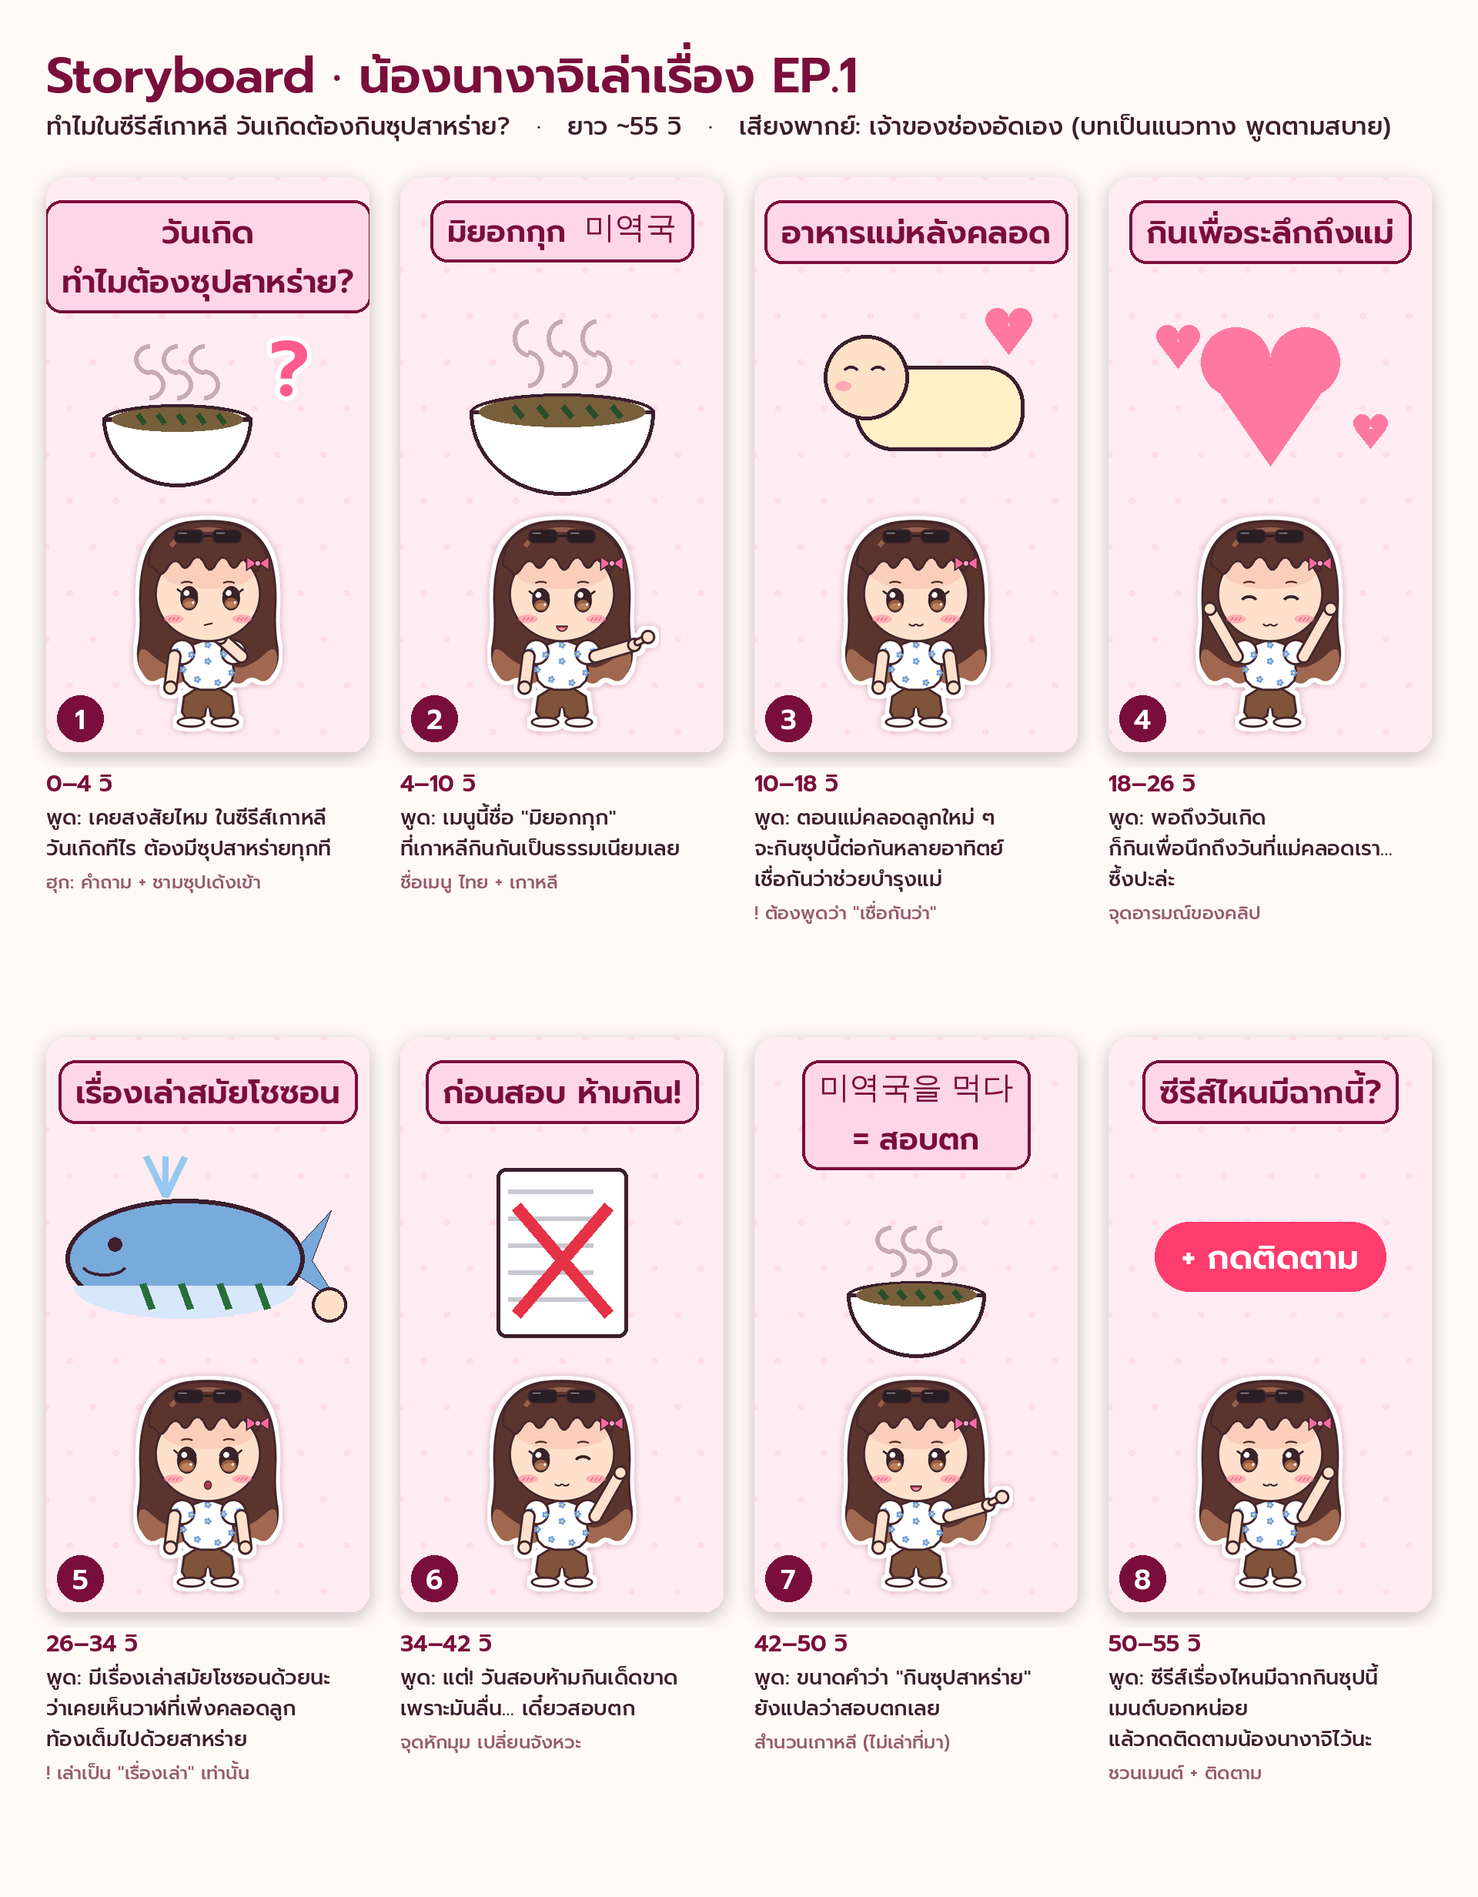
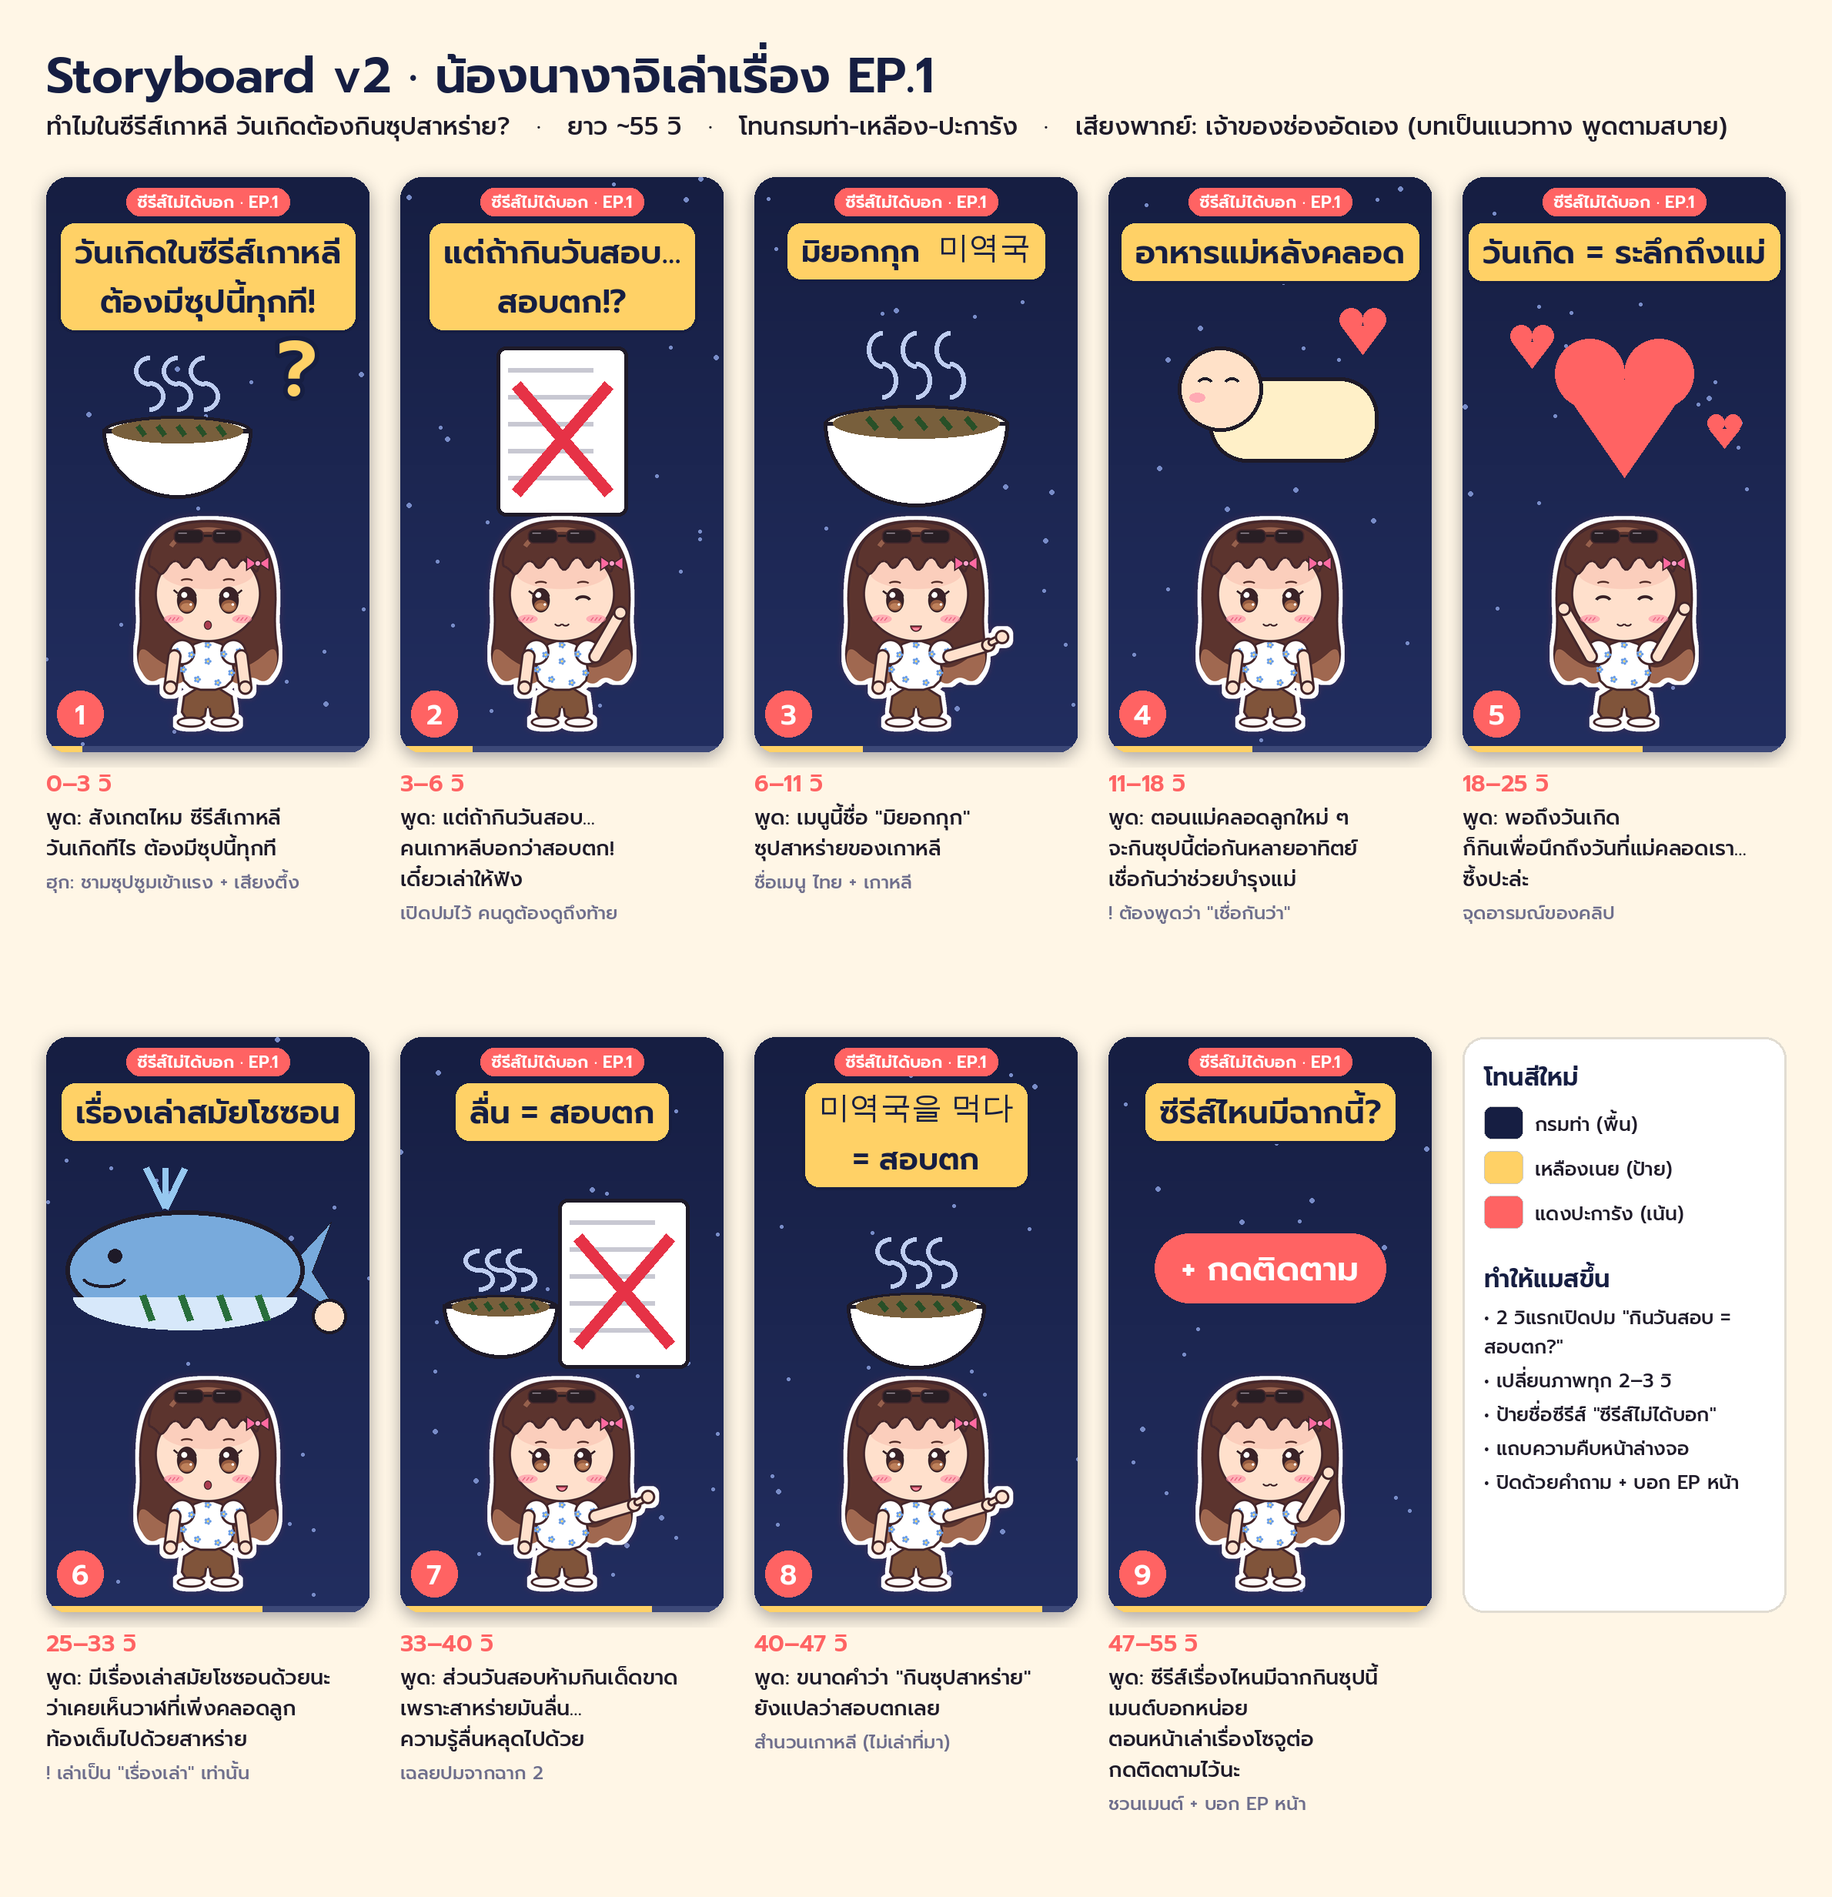
Storyboard v2: navy/yellow/coral palette, open-loop hook, series tag
Claude-Session: https://claude.ai/code/session_01RZMEmkS7RESx1oE558yDYc

diff --git a/office/weeks/2026-W47/make_storyboard.py b/office/weeks/2026-W47/make_storyboard.py
@@ -11,12 +11,14 @@ def ko(s): return ImageFont.truetype(KO, s)
 
 PW, PH = 420, 747          # panel 9:16
 GAP, M = 40, 60
-COLS, ROWS = 4, 2
+COLS, ROWS = 5, 2
 CAP = 330
 W = M*2 + COLS*PW + (COLS-1)*GAP
 H = 230 + ROWS*(PH+CAP) + (ROWS-1)*GAP + 40
-INK = (60, 30, 45)
-PINK = (255, 214, 231); DPINK = (122, 14, 59)
+INK = (30, 26, 40)
+NAVY = (22, 30, 66); NAVY2 = (34, 46, 96)
+PINK = (255, 209, 102); DPINK = (22, 30, 66)   # pill = butter yellow + navy text
+CORAL = (255, 99, 99); CREAM = (255, 246, 230); STEAM = (190, 205, 240)
 
 def bowl(d, cx, cy, s=1.0):
     w = int(150*s)
@@ -28,15 +30,15 @@ def bowl(d, cx, cy, s=1.0):
         d.line([(x, cy-10*s), (x+15*s, cy+8*s)], fill=(40,80,40), width=8)
     for i in (-1, 0, 1):  # steam
         x = cx + i*55*s
-        d.arc([x-20, cy-150*s, x+20, cy-90*s], 90, 270, fill=(200,170,180), width=6)
-        d.arc([x-20, cy-100*s, x+20, cy-40*s], 270, 90, fill=(200,170,180), width=6)
+        d.arc([x-20, cy-150*s, x+20, cy-90*s], 90, 270, fill=STEAM, width=6)
+        d.arc([x-20, cy-100*s, x+20, cy-40*s], 270, 90, fill=STEAM, width=6)
 
-def heart(d, cx, cy, r, col=(255,120,160)):
+def heart(d, cx, cy, r, col=CORAL):
     d.ellipse([cx-r, cy-r, cx, cy], fill=col); d.ellipse([cx, cy-r, cx+r, cy], fill=col)
     d.polygon([(cx-r+2, cy-r/2+8), (cx+r-2, cy-r/2+8), (cx, cy+r)], fill=col)
 
 def qmark(d, x, y, s=120):
-    d.text((x, y), "?", font=font("Prompt-SemiBold.ttf", s), fill=(255,90,140), stroke_width=6, stroke_fill="white")
+    d.text((x, y), "?", font=font("Prompt-SemiBold.ttf", s), fill=PINK, stroke_width=6, stroke_fill=NAVY)
 
 def baby(d, cx, cy):
     d.rounded_rectangle([cx-110, cy-40, cx+110, cy+70], 50, fill=(255,240,200), outline=INK, width=5)
@@ -67,7 +69,7 @@ def paper(d, cx, cy):
     d.line([(cx+60, cy-60), (cx-60, cy+80)], fill=(230,50,70), width=16)
 
 def follow_btn(d, cx, cy):
-    d.rounded_rectangle([cx-150, cy-45, cx+150, cy+45], 45, fill=(255,60,110))
+    d.rounded_rectangle([cx-150, cy-45, cx+150, cy+45], 45, fill=CORAL)
     t = "+ กดติดตาม"; f = font("Prompt-SemiBold.ttf", 44)
     w = d.textlength(t, font=f); d.text((cx-w/2, cy-32), t, font=f, fill="white")
 
@@ -90,48 +92,64 @@ def onscreen(img, text, y, size=44, korean=None, kofirst=False):
     return y + lh*len(rows) + 8
 
 PANELS = [
-  dict(t="0–4 วิ", pose="think", face="think", text="วันเกิด\nทำไมต้องซุปสาหร่าย?", prop="hook",
-       vo="เคยสงสัยไหม ในซีรีส์เกาหลี วันเกิดทีไร ต้องมีซุปสาหร่ายทุกที", note="ฮุก: คำถาม + ชามซุปเด้งเข้า"),
-  dict(t="4–10 วิ", pose="point", face="talk", text="มิยอกกุก", ko="미역국", prop="bowl",
-       vo="เมนูนี้ชื่อ \"มิยอกกุก\" ที่เกาหลีกินกันเป็นธรรมเนียมเลย", note="ชื่อเมนู ไทย + เกาหลี"),
-  dict(t="10–18 วิ", pose="stand", face="smile", text="อาหารแม่หลังคลอด", prop="baby",
+  dict(t="0–3 วิ", pose="stand", face="surprised", text="วันเกิดในซีรีส์เกาหลี\nต้องมีซุปนี้ทุกที!", prop="hook",
+       vo="สังเกตไหม ซีรีส์เกาหลี วันเกิดทีไร ต้องมีซุปนี้ทุกที", note="ฮุก: ชามซุปซูมเข้าแรง + เสียงตึ้ง"),
+  dict(t="3–6 วิ", pose="wave", face="wink", text="แต่ถ้ากินวันสอบ…\nสอบตก!?", prop="paper",
+       vo="แต่ถ้ากินวันสอบ… คนเกาหลีบอกว่าสอบตก! เดี๋ยวเล่าให้ฟัง", note="เปิดปมไว้ คนดูต้องดูถึงท้าย"),
+  dict(t="6–11 วิ", pose="point", face="talk", text="มิยอกกุก", ko="미역국", prop="bowl",
+       vo="เมนูนี้ชื่อ \"มิยอกกุก\" ซุปสาหร่ายของเกาหลี", note="ชื่อเมนู ไทย + เกาหลี"),
+  dict(t="11–18 วิ", pose="stand", face="smile", text="อาหารแม่หลังคลอด", prop="baby",
        vo="ตอนแม่คลอดลูกใหม่ ๆ จะกินซุปนี้ต่อกันหลายอาทิตย์ เชื่อกันว่าช่วยบำรุงแม่", note="! ต้องพูดว่า \"เชื่อกันว่า\""),
-  dict(t="18–26 วิ", pose="cheer", face="happy", text="กินเพื่อระลึกถึงแม่", prop="heart",
+  dict(t="18–25 วิ", pose="cheer", face="happy", text="วันเกิด = ระลึกถึงแม่", prop="heart",
        vo="พอถึงวันเกิด ก็กินเพื่อนึกถึงวันที่แม่คลอดเรา… ซึ้งปะล่ะ", note="จุดอารมณ์ของคลิป"),
-  dict(t="26–34 วิ", pose="stand", face="surprised", text="เรื่องเล่าสมัยโชซอน", prop="whale",
+  dict(t="25–33 วิ", pose="stand", face="surprised", text="เรื่องเล่าสมัยโชซอน", prop="whale",
        vo="มีเรื่องเล่าสมัยโชซอนด้วยนะ ว่าเคยเห็นวาฬที่เพิ่งคลอดลูก ท้องเต็มไปด้วยสาหร่าย", note="! เล่าเป็น \"เรื่องเล่า\" เท่านั้น"),
-  dict(t="34–42 วิ", pose="wave", face="wink", text="ก่อนสอบ ห้ามกิน!", prop="paper",
-       vo="แต่! วันสอบห้ามกินเด็ดขาด เพราะมันลื่น… เดี๋ยวสอบตก", note="จุดหักมุม เปลี่ยนจังหวะ"),
-  dict(t="42–50 วิ", pose="point", face="talk", text="= สอบตก", ko="미역국을 먹다", kofirst=True, prop="ko",
+  dict(t="33–40 วิ", pose="point", face="talk", text="ลื่น = สอบตก", prop="slip",
+       vo="ส่วนวันสอบห้ามกินเด็ดขาด เพราะสาหร่ายมันลื่น… ความรู้ลื่นหลุดไปด้วย", note="เฉลยปมจากฉาก 2"),
+  dict(t="40–47 วิ", pose="point", face="talk", text="= สอบตก", ko="미역국을 먹다", kofirst=True, prop="ko",
        vo="ขนาดคำว่า \"กินซุปสาหร่าย\" ยังแปลว่าสอบตกเลย", note="สำนวนเกาหลี (ไม่เล่าที่มา)"),
-  dict(t="50–55 วิ", pose="wave", face="smile", text="ซีรีส์ไหนมีฉากนี้?", prop="follow",
-       vo="ซีรีส์เรื่องไหนมีฉากกินซุปนี้ เมนต์บอกหน่อย แล้วกดติดตามน้องนางาจิไว้นะ", note="ชวนเมนต์ + ติดตาม"),
+  dict(t="47–55 วิ", pose="wave", face="smile", text="ซีรีส์ไหนมีฉากนี้?", prop="follow",
+       vo="ซีรีส์เรื่องไหนมีฉากกินซุปนี้ เมนต์บอกหน่อย ตอนหน้าเล่าเรื่องโซจูต่อ กดติดตามไว้นะ", note="ชวนเมนต์ + บอก EP หน้า"),
 ]
 
 def panel(p, i):
-    img = Image.new("RGB", (PW, PH), (255, 236, 242))
+    img = Image.new("RGB", (PW, PH), NAVY)
     d = ImageDraw.Draw(img)
-    for y in range(0, PH, 60):  # soft polka dots
-        for x in range((y//60 % 2)*30, PW, 60):
-            d.ellipse([x-4, y-4, x+4, y+4], fill=(255, 222, 233))
+    for y in range(PH):  # vertical gradient
+        t = y / PH
+        d.line([(0, y), (PW, y)], fill=tuple(int(NAVY[k]*(1-t) + NAVY2[k]*t) for k in range(3)))
+    import random; rnd = random.Random(i)
+    for _ in range(26):  # tiny stars
+        x, y, r = rnd.randint(0, PW), rnd.randint(0, PH), rnd.choice([2, 2, 3])
+        d.ellipse([x-r, y-r, x+r, y+r], fill=(120, 140, 200))
+    # series tag
+    ft = font("Prompt-SemiBold.ttf", 22); tag = "ซีรีส์ไม่ได้บอก · EP.1"
+    tw = d.textlength(tag, font=ft)
+    d.rounded_rectangle([PW/2-tw/2-14, 14, PW/2+tw/2+14, 50], 18, fill=CORAL)
+    d.text((PW/2-tw/2, 16), tag, font=ft, fill="white")
+    # progress bar
+    d.rounded_rectangle([0, PH-8, PW, PH], 0, fill=(60, 72, 120))
+    d.rectangle([0, PH-8, PW*(i+1)/len(PANELS), PH], fill=PINK)
     # prop area (upper half)
-    pr = p["prop"]; cx, cy = PW//2, 285
-    if pr == "hook": bowl(d, cx-40, cy+30, 0.65); qmark(d, 290, 175, 100)
+    pr = p["prop"]; cx, cy = PW//2, 300
+    if pr == "hook": bowl(d, cx-40, cy+30, 0.65); qmark(d, 300, 175, 100)
     elif pr == "bowl": bowl(d, cx, cy+20, 0.8)
     elif pr == "baby": baby(d, cx+30, cy); heart(d, 330, 200, 30)
     elif pr == "heart": heart(d, cx, cy, 90); heart(d, 90, 220, 28); heart(d, 340, 330, 22)
     elif pr == "whale": whale(d, cx-15, cy)
-    elif pr == "paper": paper(d, cx, cy-5)
+    elif pr == "paper": paper(d, cx, cy+30)
     elif pr == "ko": bowl(d, cx, cy+50, 0.6)
     elif pr == "follow": follow_btn(d, cx, cy)
-    onscreen(img, p["text"], 40, 40 if p.get("ko") else 42, p.get("ko"), p.get("kofirst", False))
+    elif pr == "slip":
+        bowl(d, cx-80, cy+50, 0.5); paper(d, cx+80, cy+20)
+    onscreen(img, p["text"], 66, 40 if p.get("ko") else 42, p.get("ko"), p.get("kofirst", False))
     # mascot bottom
     m = draw_nagaji(pose=p["pose"], face=p["face"], height=350)
     img.paste(m, ((PW - m.width)//2, PH - m.height + 10), m)
     # number badge
-    d.ellipse([14, PH-74, 74, PH-14], fill=DPINK)
+    d.ellipse([14, PH-80, 74, PH-20], fill=CORAL)
     n = str(i+1); f = font("Prompt-SemiBold.ttf", 36)
-    d.text((44 - d.textlength(n, font=f)/2, PH-70), n, font=f, fill="white")
+    d.text((44 - d.textlength(n, font=f)/2, PH-76), n, font=f, fill="white")
     return img
 
 def wrap(d, text, f, maxw):
@@ -144,27 +162,44 @@ def wrap(d, text, f, maxw):
 
 def main(out):
     W_, H_ = W, H
-    can = Image.new("RGB", (W_, H_), (255, 250, 247))
+    can = Image.new("RGB", (W_, H_), CREAM)
     d = ImageDraw.Draw(can)
-    d.text((M, 50), "Storyboard · น้องนางาจิเล่าเรื่อง EP.1", font=font("Prompt-SemiBold.ttf", 64), fill=DPINK)
-    d.text((M, 140), "ทำไมในซีรีส์เกาหลี วันเกิดต้องกินซุปสาหร่าย?   ·   ยาว ~55 วิ   ·   เสียงพากย์: เจ้าของช่องอัดเอง (บทเป็นแนวทาง พูดตามสบาย)",
+    d.text((M, 50), "Storyboard v2 · น้องนางาจิเล่าเรื่อง EP.1", font=font("Prompt-SemiBold.ttf", 64), fill=NAVY)
+    d.text((M, 140), "ทำไมในซีรีส์เกาหลี วันเกิดต้องกินซุปสาหร่าย?   ·   ยาว ~55 วิ   ·   โทนกรมท่า-เหลือง-ปะการัง   ·   เสียงพากย์: เจ้าของช่องอัดเอง (บทเป็นแนวทาง พูดตามสบาย)",
            font=font("Prompt-Medium.ttf", 32), fill=INK)
     fb = font("Prompt-SemiBold.ttf", 30); fv = font("Prompt-Medium.ttf", 27); fn = font("Prompt-Medium.ttf", 24)
     for i, p in enumerate(PANELS):
         r, c = divmod(i, COLS)
         x = M + c*(PW+GAP); y = 230 + r*(PH+CAP+GAP)
         sh = Image.new("RGBA", (PW+40, PH+40), (0,0,0,0))
-        ImageDraw.Draw(sh).rounded_rectangle([20, 26, PW+20, PH+26], 28, fill=(120,40,70,70))
+        ImageDraw.Draw(sh).rounded_rectangle([20, 26, PW+20, PH+26], 28, fill=(20,25,60,90))
         sh = sh.filter(ImageFilter.GaussianBlur(10)); can.paste(sh, (x-20, y-20), sh)
         pi = panel(p, i); mask = Image.new("L", pi.size, 0)
         ImageDraw.Draw(mask).rounded_rectangle([0, 0, PW, PH], 28, fill=255)
         can.paste(pi, (x, y), mask)
         ty = y + PH + 18
-        d.text((x, ty), p["t"], font=fb, fill=DPINK)
+        d.text((x, ty), p["t"], font=fb, fill=CORAL)
         ty += 46
         for ln in wrap(d, "🎙 " .replace("🎙 ", "พูด: ") + p["vo"], fv, PW):
             d.text((x, ty), ln, font=fv, fill=INK); ty += 40
-        d.text((x, ty + 6), p["note"], font=fn, fill=(150, 90, 110))
+        d.text((x, ty + 6), p["note"], font=fn, fill=(110, 110, 140))
+    # legend in the 10th slot
+    x = M + 4*(PW+GAP); y = 230 + (PH+CAP+GAP)
+    d.rounded_rectangle([x, y, x+PW, y+PH], 28, fill="white", outline=(225, 220, 210), width=3)
+    fh = font("Prompt-SemiBold.ttf", 32); fl = font("Prompt-Medium.ttf", 25)
+    d.text((x+28, y+28), "โทนสีใหม่", font=fh, fill=NAVY)
+    for k, (c, n) in enumerate([(NAVY, "กรมท่า (พื้น)"), (PINK, "เหลืองเนย (ป้าย)"), (CORAL, "แดงปะการัง (เน้น)")]):
+        yy = y + 90 + k*58
+        d.rounded_rectangle([x+28, yy, x+78, yy+42], 10, fill=c, outline=(200, 200, 200))
+        d.text((x+94, yy+4), n, font=fl, fill=INK)
+    d.text((x+28, y+290), "ทำให้แมสขึ้น", font=fh, fill=NAVY)
+    tips = ["2 วิแรกเปิดปม \"กินวันสอบ = สอบตก?\"", "เปลี่ยนภาพทุก 2–3 วิ", "ป้ายชื่อซีรีส์ \"ซีรีส์ไม่ได้บอก\"",
+            "แถบความคืบหน้าล่างจอ", "ปิดด้วยคำถาม + บอก EP หน้า"]
+    yy = y + 345
+    for t in tips:
+        for ln in wrap(d, "• " + t, fl, PW-56):
+            d.text((x+28, yy), ln, font=fl, fill=INK); yy += 38
+        yy += 6
     can.save(out); print(out, can.size)
 
 if __name__ == "__main__":
